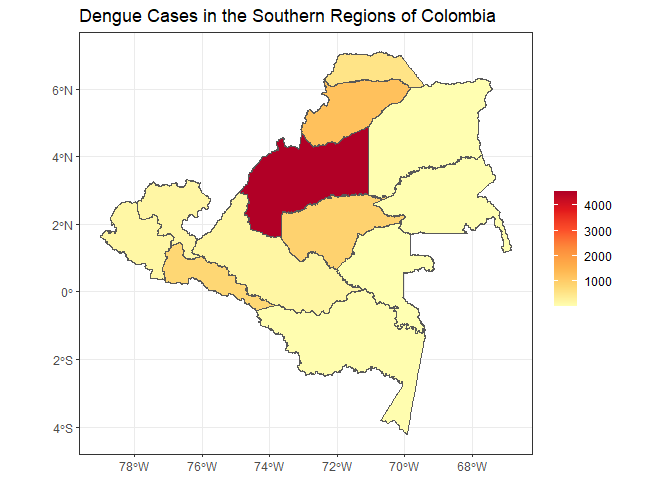
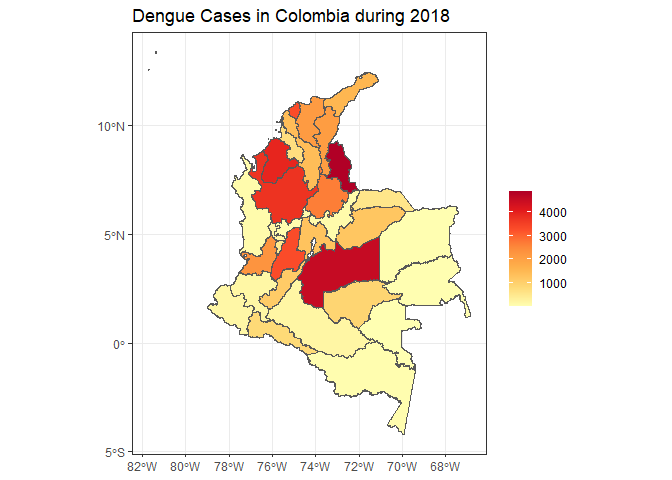
Update readme

diff --git a/README.md b/README.md
@@ -46,8 +46,8 @@ pak::pak("epiverse-trace/ColOpenData")
 
 This example shows how to retrieve census data at a department level in
 Colombia including the administrative divisions and spatial data, to
-later use it to visualize Dengue cases in a specific region. We will
-first load the needed packages.
+later use it to visualize Dengue cases during 2018. We will first load
+the needed packages.
 
 ``` r
 library(ColOpenData)
@@ -61,7 +61,7 @@ We will be using the `MGNCNPV_DPTO_2018` dataset, which contains the
 National Geo statistical Framework (MGN) and the National Population and
 Living Census (CNPV) at department level for 2018.
 
-To download the dataset we can use the `download` function as follows.
+To load the dataset we can use the `download` function as follows.
 
 ``` r
 census <- download("MGNCNPV_DPTO_2018")
@@ -169,20 +169,13 @@ str(census)
 #>   ..- attr(*, "names")= chr [1:88] "DPTO_CCDGO" "DPTO_CNMBR" "VERSION" "AREA" ...
 ```
 
-Once downloaded, we can filter the data to subset only the region of
-interest using `filter_mgn_cnpv`. For this example will be selecting the
-departments in the southern regions of Colombia (Amazonia and
-Orinoquia), using their [DIVIPOLA
-codes](https://www.datos.gov.co/widgets/gdxc-w37w), and extract only the
-names and populations.
+Once downloaded, we can subset the data by regions or columns of
+interest. In this example we only need the departments codes and
+geometries.
 
 ``` r
 south_col <- census %>%
-  filter_mgn_cnpv(
-    codes = c(91, 18, 19, 94, 95, 50, 52, 86, 97, 99, 81, 85),
-    columns = c("DPTO_CNMBR", "STP27_PERS"),
-    include_geometry = TRUE
-  )
+  select(DPTO_CCDGO, geometry)
 ```
 
 Dengue cases during 2018 can be loaded from the example dataset
@@ -216,7 +209,7 @@ ggplot(data = dengue_south) +
     colours = brewer.pal(7, "YlOrRd"),
     name = element_blank()
   ) +
-  ggtitle("Dengue Cases in the Southern Regions of Colombia") +
+  ggtitle("Dengue Cases in Colombia during 2018") +
   theme_bw()
 ```
 
